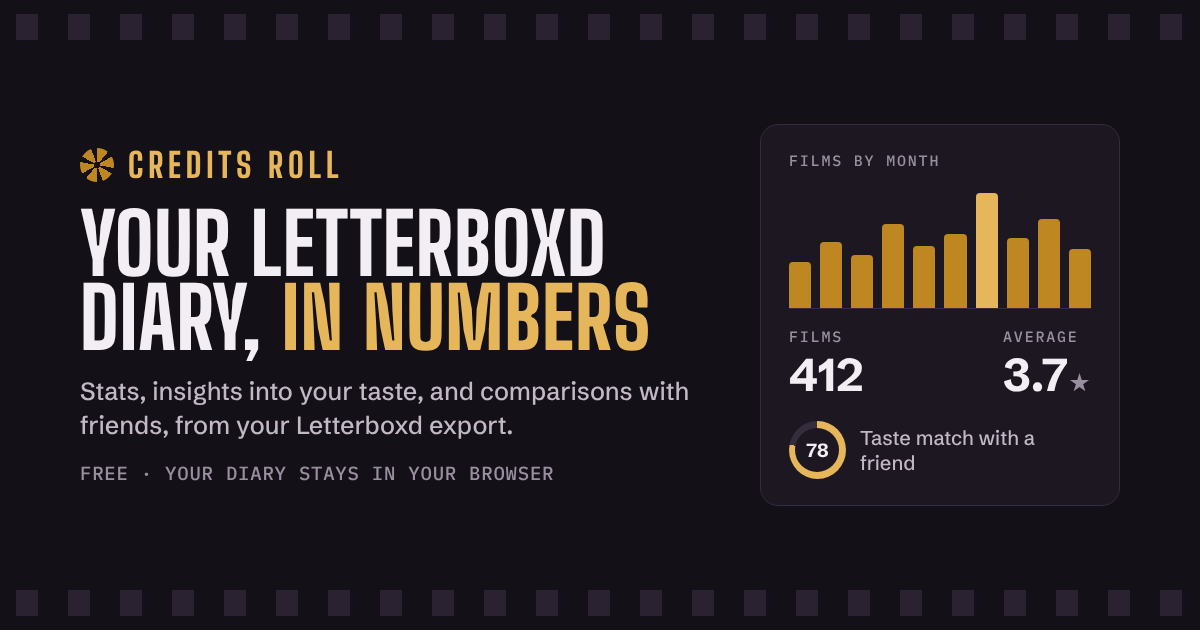
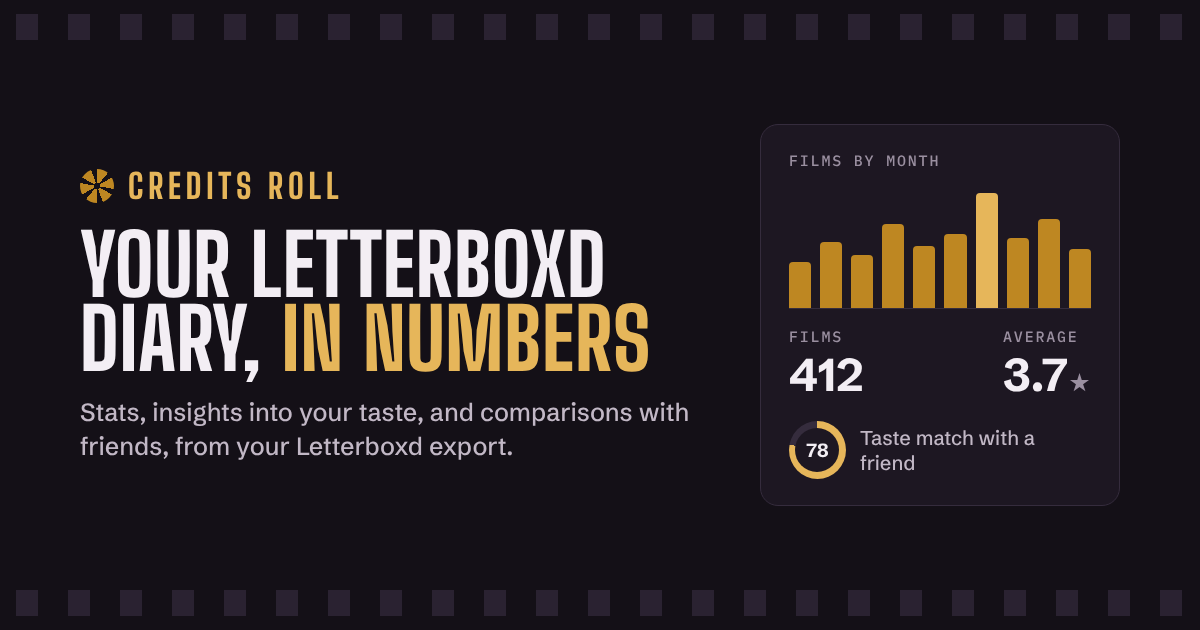
Link preview: no "free", and its details first on every page
When the site's link is shared, the preview line now reads "Stats, insights
and taste comparisons from your Letterboxd export." and the picture no
longer carries the "Free · your diary stays in your browser" line.
The preview's title, line and picture now come first on each page, before
anything else, since WhatsApp and similar apps read only the top of a page.

Claude-Session: https://claude.ai/code/session_01Y9mQHzhrSZmWWWZ7KyxasH

Changed region(s): [[0.0617, 0.2413, 0.5858, 0.7841]]

diff --git a/docs/mobile.html b/docs/mobile.html
@@ -2,7 +2,19 @@
 <html lang="en">
 <head>
 <meta charset="utf-8">
-<meta http-equiv="Content-Security-Policy" content="default-src 'none'; script-src 'self' 'sha256-AvJVfx2PmsGik4emJ4mkbu4bU2b6DR2iv7AkwsjQuR0=' 'sha256-elv+wPfA3yRbWyozTo9h+JYTHilloJthhEsFWyPJiPU=' 'sha256-lS2T9lrp5dL1riIF2QWIxm+KKYfO01n7E9hau3grw1Q=' 'sha256-EArm8ugYkw7cwtQuhTbeDQ7GJ97JIlgiKtjUPxK4kyU=' 'sha256-B82hY+3mhzgBokFCixF2XGrDhEXTsD3c0hlCUzaOySk=' 'sha256-C0hWWdsCi6D/yQNhk31M5G6/fT3KqDMe8xby6dcTLyo=' 'sha256-RM4R3JX0nvKK9bws33iWaJ/X5ShIsJ9dwnwZFM0sjHQ=' 'sha256-jpTMZLGyqdl74CSoMtqaF3XC+h0MSMqoSuIZukpu6Lw=' 'sha256-ek/1Q+1aX8JtDS0RVODtIO1oeclnVDJoDjeqbGddypw=' 'sha256-EIkU92DApQizQfyhiZygaktaJhdOkCvkn6yIkbXrkts=' 'sha256-yLxvS88QxMk+7orYRhhB8/nzKZWM/fc+nN7SRbmXC0c=' 'sha256-+3X8AR+i7xvxiItNVaCyUzAGQJMjHKXdRdU0cU5k9O0=' 'sha256-WSs/ZlL5rhLoDTpYa6Z4O/wsuMD9ujNi/inYlLeiYmU=' 'sha256-CS/CNUYhU5X82DY565caK8dukkFjcI1WBnguQweBE+Y=' 'sha256-yhU9/g0M0NP7cMaoxw6r2sMlu5ZyOzekIDHyQOOkDks=' 'sha256-fh+hLq8sE6ygcNtzjdgkIKi2wmtgA4SsJDSROakngOk=' 'sha256-XZlxlv7oSDKKMtW6ZdA0lfFKW9aUDraj5UkhfLu3jB0=' 'sha256-/7eXpUQp04bNorM1aVTppcjLISTsqmxIjoWBpJghW3w=' 'sha256-d2PjefTaq6v6TuUZ4PZG7e7yGS5Cv2vbg7UpUH7rNWI=' 'sha256-o4QEZlp9kiVs7ZtX31mU7F3Gwe047LiT3VXj+ehswkI=' 'sha256-v9OXAuLOdWac7j+zHySFGs8JbZDDGlk/FGnGVxNMntg=' 'sha256-7FkfcNiAckgNAbUhmykb/okNmTuEwu2xmJRLONHj1Ys=' 'sha256-dqoYB0Iv/+c1s+zcSr2klUoXHwdrPM+V+jP5RYzsrvg=' 'sha256-md01RUc1QG0T+KiCL13k5JEDhd0qbVZN+LDFQPjkhv8=' 'sha256-JoAQ7l5vEqm3+fOzJ7xFDaky3iVAsQz98/U4gBnx1NA=' 'sha256-5J5oY9wGmmzsu//92LZJM821ufPUNN3OwZo/yZ0X0yU=' 'sha256-VRGtNK6KEQip9qg6Unj0RgAW0g3hvSX5eQu57VcH4eI='; style-src 'self' 'unsafe-inline' https://fonts.googleapis.com; font-src https://fonts.gstatic.com; img-src 'self' data: blob: https://image.tmdb.org; connect-src 'self' https://api.themoviedb.org https://www.omdbapi.com https://api.apify.com https://api.github.com; manifest-src 'self'; worker-src 'self'; base-uri 'none'; form-action 'none'; object-src 'none'">
+<meta name="description" content="Stats, insights and taste comparisons from your Letterboxd export.">
+<meta property="og:type" content="website">
+<meta property="og:site_name" content="Credits Roll">
+<meta property="og:title" content="Credits Roll: your Letterboxd diary, in numbers">
+<meta property="og:description" content="Stats, insights and taste comparisons from your Letterboxd export.">
+<meta property="og:url" content="https://sjnift.github.io/bogie1946/">
+<meta property="og:image" content="https://sjnift.github.io/bogie1946/og.png">
+<meta property="og:image:type" content="image/png">
+<meta property="og:image:width" content="1200">
+<meta property="og:image:height" content="630">
+<meta property="og:image:alt" content="Credits Roll: your Letterboxd diary, in numbers">
+<meta name="twitter:card" content="summary_large_image">
+<meta http-equiv="Content-Security-Policy" content="default-src 'none'; script-src 'self' 'sha256-AvJVfx2PmsGik4emJ4mkbu4bU2b6DR2iv7AkwsjQuR0=' 'sha256-elv+wPfA3yRbWyozTo9h+JYTHilloJthhEsFWyPJiPU=' 'sha256-lS2T9lrp5dL1riIF2QWIxm+KKYfO01n7E9hau3grw1Q=' 'sha256-EArm8ugYkw7cwtQuhTbeDQ7GJ97JIlgiKtjUPxK4kyU=' 'sha256-B82hY+3mhzgBokFCixF2XGrDhEXTsD3c0hlCUzaOySk=' 'sha256-C0hWWdsCi6D/yQNhk31M5G6/fT3KqDMe8xby6dcTLyo=' 'sha256-RM4R3JX0nvKK9bws33iWaJ/X5ShIsJ9dwnwZFM0sjHQ=' 'sha256-jpTMZLGyqdl74CSoMtqaF3XC+h0MSMqoSuIZukpu6Lw=' 'sha256-ek/1Q+1aX8JtDS0RVODtIO1oeclnVDJoDjeqbGddypw=' 'sha256-EIkU92DApQizQfyhiZygaktaJhdOkCvkn6yIkbXrkts=' 'sha256-yLxvS88QxMk+7orYRhhB8/nzKZWM/fc+nN7SRbmXC0c=' 'sha256-+3X8AR+i7xvxiItNVaCyUzAGQJMjHKXdRdU0cU5k9O0=' 'sha256-WSs/ZlL5rhLoDTpYa6Z4O/wsuMD9ujNi/inYlLeiYmU=' 'sha256-CS/CNUYhU5X82DY565caK8dukkFjcI1WBnguQweBE+Y=' 'sha256-yhU9/g0M0NP7cMaoxw6r2sMlu5ZyOzekIDHyQOOkDks=' 'sha256-fh+hLq8sE6ygcNtzjdgkIKi2wmtgA4SsJDSROakngOk=' 'sha256-XZlxlv7oSDKKMtW6ZdA0lfFKW9aUDraj5UkhfLu3jB0=' 'sha256-dHJcx+QE1yFjy4Q3RpWQWJzOp47sR5Mp/7rAXZV/t+w=' 'sha256-4nL/HYm6j2VYJ4KKgxjdeVaP5he0vLizNIsTuj987nI=' 'sha256-o4QEZlp9kiVs7ZtX31mU7F3Gwe047LiT3VXj+ehswkI=' 'sha256-v9OXAuLOdWac7j+zHySFGs8JbZDDGlk/FGnGVxNMntg=' 'sha256-7FkfcNiAckgNAbUhmykb/okNmTuEwu2xmJRLONHj1Ys=' 'sha256-dqoYB0Iv/+c1s+zcSr2klUoXHwdrPM+V+jP5RYzsrvg=' 'sha256-md01RUc1QG0T+KiCL13k5JEDhd0qbVZN+LDFQPjkhv8=' 'sha256-JoAQ7l5vEqm3+fOzJ7xFDaky3iVAsQz98/U4gBnx1NA=' 'sha256-5J5oY9wGmmzsu//92LZJM821ufPUNN3OwZo/yZ0X0yU=' 'sha256-VRGtNK6KEQip9qg6Unj0RgAW0g3hvSX5eQu57VcH4eI='; style-src 'self' 'unsafe-inline' https://fonts.googleapis.com; font-src https://fonts.gstatic.com; img-src 'self' data: blob: https://image.tmdb.org; connect-src 'self' https://api.themoviedb.org https://www.omdbapi.com https://api.apify.com https://api.github.com; manifest-src 'self'; worker-src 'self'; base-uri 'none'; form-action 'none'; object-src 'none'">
 <meta name="referrer" content="no-referrer">
 <style id="unframed">html{display:none}</style>
 <script>if (self === top) document.getElementById("unframed").remove(); else top.location = self.location.href;</script>
@@ -14,17 +26,6 @@
 <meta name="apple-mobile-web-app-title" content="Credits Roll">
 <link rel="icon" type="image/png" sizes="192x192" href="icons/icon-192.png">
 <link rel="apple-touch-icon" href="icons/apple-touch-icon.png">
-<meta name="description" content="Free stats, insights and taste comparisons from your Letterboxd export. Your diary stays in your browser.">
-<meta property="og:type" content="website">
-<meta property="og:site_name" content="Credits Roll">
-<meta property="og:title" content="Credits Roll: your Letterboxd diary, in numbers">
-<meta property="og:description" content="Free stats, insights and taste comparisons from your Letterboxd export. Your diary stays in your browser.">
-<meta property="og:url" content="https://sjnift.github.io/bogie1946/">
-<meta property="og:image" content="https://sjnift.github.io/bogie1946/og.png">
-<meta property="og:image:width" content="1200">
-<meta property="og:image:height" content="630">
-<meta property="og:image:alt" content="Credits Roll: your Letterboxd diary, in numbers">
-<meta name="twitter:card" content="summary_large_image">
 <meta name="viewport" content="width=device-width,initial-scale=1,viewport-fit=cover">
 <style>:root{padding-top:env(safe-area-inset-top,0px);padding-bottom:env(safe-area-inset-bottom,0px)}body{margin:0}img{max-width:100%}[hidden]{display:none!important}</style>
 <title>Credits Roll</title>
@@ -5689,7 +5690,7 @@ function welcomeScreen() {
       <button class="btn green block" type="button" data-act="import">${ICON.upload}Import export</button>
       ${state.importError ? `<p class="status err" role="alert">${esc(state.importError)}</p>` : ""}</div><div data-sitebox="open">${siteBox("open")}</div>
     ${IN_VIEWER ? `<p class="note">This Claude version keeps its own copy of an import. Your saved diary is on the website, <a href="https://sjnift.github.io/bogie1946/" target="_blank" rel="noopener">sjnift.github.io/bogie1946</a>.</p>` : ""}
-    <div class="foot"><p class="stamp">Updated 25 Oct 2026, 05:48 UTC</p></div>`;
+    <div class="foot"><p class="stamp">Updated 25 Oct 2026, 06:35 UTC</p></div>`;
 }
 // The header frosts over once the screen scrolls under it.
 function updateTop() { $("#top").classList.toggle("solid", window.scrollY > 12); }
@@ -6055,7 +6056,7 @@ function dataScreen() {
       Inside the Claude app, details come from Claude's knowledge of each film instead, so check anything surprising.` : ""}</p>
       <p>Your diary stays in this browser: only film titles and years go to TMDB, to find cast and crew.</p>
       <p>On a computer? <a href="desktop.html">Open the desktop version</a>. It uses the same import.</p>
-      <p class="stamp">Updated 25 Oct 2026, 05:48 UTC</p></div>`;
+      <p class="stamp">Updated 25 Oct 2026, 06:35 UTC</p></div>`;
 }
 
 /* ---------- pushed screens ---------- */

diff --git a/docs/desktop.html b/docs/desktop.html
@@ -2,6 +2,18 @@
 <html lang="en">
 <head>
 <meta charset="utf-8">
+<meta name="description" content="Stats, insights and taste comparisons from your Letterboxd export.">
+<meta property="og:type" content="website">
+<meta property="og:site_name" content="Credits Roll">
+<meta property="og:title" content="Credits Roll: your Letterboxd diary, in numbers">
+<meta property="og:description" content="Stats, insights and taste comparisons from your Letterboxd export.">
+<meta property="og:url" content="https://sjnift.github.io/bogie1946/">
+<meta property="og:image" content="https://sjnift.github.io/bogie1946/og.png">
+<meta property="og:image:type" content="image/png">
+<meta property="og:image:width" content="1200">
+<meta property="og:image:height" content="630">
+<meta property="og:image:alt" content="Credits Roll: your Letterboxd diary, in numbers">
+<meta name="twitter:card" content="summary_large_image">
 <meta http-equiv="Content-Security-Policy" content="default-src 'none'; script-src 'self' 'sha256-AvJVfx2PmsGik4emJ4mkbu4bU2b6DR2iv7AkwsjQuR0=' 'sha256-elv+wPfA3yRbWyozTo9h+JYTHilloJthhEsFWyPJiPU=' 'sha256-lS2T9lrp5dL1riIF2QWIxm+KKYfO01n7E9hau3grw1Q=' 'sha256-EArm8ugYkw7cwtQuhTbeDQ7GJ97JIlgiKtjUPxK4kyU=' 'sha256-B82hY+3mhzgBokFCixF2XGrDhEXTsD3c0hlCUzaOySk=' 'sha256-C0hWWdsCi6D/yQNhk31M5G6/fT3KqDMe8xby6dcTLyo=' 'sha256-RM4R3JX0nvKK9bws33iWaJ/X5ShIsJ9dwnwZFM0sjHQ=' 'sha256-jpTMZLGyqdl74CSoMtqaF3XC+h0MSMqoSuIZukpu6Lw=' 'sha256-ek/1Q+1aX8JtDS0RVODtIO1oeclnVDJoDjeqbGddypw=' 'sha256-EIkU92DApQizQfyhiZygaktaJhdOkCvkn6yIkbXrkts=' 'sha256-yLxvS88QxMk+7orYRhhB8/nzKZWM/fc+nN7SRbmXC0c=' 'sha256-+3X8AR+i7xvxiItNVaCyUzAGQJMjHKXdRdU0cU5k9O0=' 'sha256-WSs/ZlL5rhLoDTpYa6Z4O/wsuMD9ujNi/inYlLeiYmU=' 'sha256-CS/CNUYhU5X82DY565caK8dukkFjcI1WBnguQweBE+Y=' 'sha256-yhU9/g0M0NP7cMaoxw6r2sMlu5ZyOzekIDHyQOOkDks=' 'sha256-fh+hLq8sE6ygcNtzjdgkIKi2wmtgA4SsJDSROakngOk=' 'sha256-XZlxlv7oSDKKMtW6ZdA0lfFKW9aUDraj5UkhfLu3jB0=' 'sha256-59jZl8a89ctaclxiGx/dPoNRRSqOXwTSy9FqrSKNRNQ=' 'sha256-YQSXdNGcfM4JHZyxEHbF4eBJoxhpKAkJ+RqIlgRd+nA=' 'sha256-ygfv4zGRdTv8woKqWXHQD+qms0k6FLSyO6stX3ZW1QU=' 'sha256-82Dbk915j0jg0agCY040+JjHoobv0D1EpTdPYN8yPEQ=' 'sha256-gfrIsWsUDUkYXanQ4YooxAjVxH1Gmo802l7xaMWPyw8=' 'sha256-JHpQG/DS9k9LKjdHAIr6fnxqPvTq8u2042vi7oaqdN8=' 'sha256-Q7mo56IdO2In2arGSrHB3bRpGgEDNLkbeFtP0hYhdYI=' 'sha256-TSKh5lFwN2ttZLfa4bjpyGIABBsgFiDJPGZb//7ihZs=' 'sha256-U95OXvwJdGGyXdWpPOeXLlqPAcouX0n+BnGWiw+O+4I=' 'sha256-VRGtNK6KEQip9qg6Unj0RgAW0g3hvSX5eQu57VcH4eI='; style-src 'self' 'unsafe-inline' https://fonts.googleapis.com; font-src https://fonts.gstatic.com; img-src 'self' data: blob: https://image.tmdb.org; connect-src 'self' https://api.themoviedb.org https://www.omdbapi.com https://api.apify.com https://api.github.com; manifest-src 'self'; worker-src 'self'; base-uri 'none'; form-action 'none'; object-src 'none'">
 <meta name="referrer" content="no-referrer">
 <style id="unframed">html{display:none}</style>
@@ -14,17 +26,6 @@
 <meta name="apple-mobile-web-app-title" content="Credits Roll">
 <link rel="icon" type="image/png" sizes="192x192" href="icons/icon-192.png">
 <link rel="apple-touch-icon" href="icons/apple-touch-icon.png">
-<meta name="description" content="Free stats, insights and taste comparisons from your Letterboxd export. Your diary stays in your browser.">
-<meta property="og:type" content="website">
-<meta property="og:site_name" content="Credits Roll">
-<meta property="og:title" content="Credits Roll: your Letterboxd diary, in numbers">
-<meta property="og:description" content="Free stats, insights and taste comparisons from your Letterboxd export. Your diary stays in your browser.">
-<meta property="og:url" content="https://sjnift.github.io/bogie1946/">
-<meta property="og:image" content="https://sjnift.github.io/bogie1946/og.png">
-<meta property="og:image:width" content="1200">
-<meta property="og:image:height" content="630">
-<meta property="og:image:alt" content="Credits Roll: your Letterboxd diary, in numbers">
-<meta name="twitter:card" content="summary_large_image">
 <meta name="viewport" content="width=device-width,initial-scale=1,viewport-fit=cover">
 <style>:root{padding-top:env(safe-area-inset-top,0px);padding-bottom:env(safe-area-inset-bottom,0px)}body{margin:0}img{max-width:100%}[hidden]{display:none!important}</style>
 <title>Credits Roll</title>
@@ -890,12 +891,12 @@ body.empty #settings, body.empty .foot-settings { display: none !important; }
           Inside the Claude app, details come from Claude's knowledge of each film instead, so check anything surprising.</span></p>
         <p>Your diary stays in your browser: only film titles and years go to TMDB, to find cast and crew.</p>
         <p>On a phone? <a href="mobile.html">Open the phone version</a>. It uses the same import.</p>
-        <p>Updated 25 Oct 2026, 05:48 UTC</p>
+        <p>Updated 25 Oct 2026, 06:35 UTC</p>
       </div>
     </section>
   </main>
   <footer>
-    <p>Updated 25 Oct 2026, 05:48 UTC<span class="foot-settings"> · <button class="linkish" type="button" data-goto="settings">Settings</button></span></p>
+    <p>Updated 25 Oct 2026, 06:35 UTC<span class="foot-settings"> · <button class="linkish" type="button" data-goto="settings">Settings</button></span></p>
   </footer>
 </div>
 

diff --git a/docs/index.html b/docs/index.html
@@ -2,23 +2,24 @@
 <html lang="en">
 <head>
 <meta charset="utf-8">
+<meta name="description" content="Stats, insights and taste comparisons from your Letterboxd export.">
+<meta property="og:type" content="website">
+<meta property="og:site_name" content="Credits Roll">
+<meta property="og:title" content="Credits Roll: your Letterboxd diary, in numbers">
+<meta property="og:description" content="Stats, insights and taste comparisons from your Letterboxd export.">
+<meta property="og:url" content="https://sjnift.github.io/bogie1946/">
+<meta property="og:image" content="https://sjnift.github.io/bogie1946/og.png">
+<meta property="og:image:type" content="image/png">
+<meta property="og:image:width" content="1200">
+<meta property="og:image:height" content="630">
+<meta property="og:image:alt" content="Credits Roll: your Letterboxd diary, in numbers">
+<meta name="twitter:card" content="summary_large_image">
 <meta http-equiv="Content-Security-Policy" content="default-src 'none'; script-src 'self' 'sha256-AvJVfx2PmsGik4emJ4mkbu4bU2b6DR2iv7AkwsjQuR0=' 'sha256-ozeqYQvUNaV+4pGs6RYC4JnhYUWTJYMXm0rzoFMlPMM='; style-src 'self' 'unsafe-inline' https://fonts.googleapis.com; font-src https://fonts.gstatic.com; img-src 'self' data: blob: https://image.tmdb.org; connect-src 'self' https://api.themoviedb.org https://www.omdbapi.com https://api.apify.com https://api.github.com; manifest-src 'self'; worker-src 'self'; base-uri 'none'; form-action 'none'; object-src 'none'">
 <meta name="referrer" content="no-referrer">
 <style id="unframed">html{display:none}</style>
 <script>if (self === top) document.getElementById("unframed").remove(); else top.location = self.location.href;</script>
 <meta name="viewport" content="width=device-width,initial-scale=1">
 <title>Credits Roll</title>
-<meta name="description" content="Free stats, insights and taste comparisons from your Letterboxd export. Your diary stays in your browser.">
-<meta property="og:type" content="website">
-<meta property="og:site_name" content="Credits Roll">
-<meta property="og:title" content="Credits Roll: your Letterboxd diary, in numbers">
-<meta property="og:description" content="Free stats, insights and taste comparisons from your Letterboxd export. Your diary stays in your browser.">
-<meta property="og:url" content="https://sjnift.github.io/bogie1946/">
-<meta property="og:image" content="https://sjnift.github.io/bogie1946/og.png">
-<meta property="og:image:width" content="1200">
-<meta property="og:image:height" content="630">
-<meta property="og:image:alt" content="Credits Roll: your Letterboxd diary, in numbers">
-<meta name="twitter:card" content="summary_large_image">
 <link rel="manifest" href="manifest.webmanifest">
 <meta name="theme-color" content="#1B2128">
 <link rel="apple-touch-icon" href="icons/apple-touch-icon.png">

diff --git a/tools/og.html b/tools/og.html
@@ -12,7 +12,6 @@
   h1 { font-family: "Big Shoulders Display"; font-weight: 800; text-transform: uppercase; font-size: 84px; line-height: .88; margin: 22px 0 20px; letter-spacing: .01em; }
   h1 span { color: #E6B65A; }
   p { margin: 0; font-size: 25px; line-height: 1.35; color: #C2B8C6; }
-  .free { margin-top: 18px; font-family: "IBM Plex Mono"; font-size: 19px; color: #9A8FA0; letter-spacing: .04em; }
   .card { background: #1D1722; border: 1px solid #352C3D; border-radius: 18px; padding: 26px 28px; display: grid; gap: 18px; }
   .k { font-family: "IBM Plex Mono"; font-size: 15px; letter-spacing: .12em; text-transform: uppercase; color: #9A8FA0; }
   .bars { display: flex; align-items: flex-end; gap: 9px; height: 120px; border-bottom: 1px solid #352C3D; }
@@ -32,7 +31,6 @@
       <div class="mark"><span class="reel"></span>CREDITS ROLL</div>
       <h1>Your Letterboxd diary, <span>in numbers</span></h1>
       <p>Stats, insights into your taste, and comparisons with friends, from your Letterboxd export.</p>
-      <div class="free">FREE · YOUR DIARY STAYS IN YOUR BROWSER</div>
     </div>
     <div class="card">
       <div class="k">Films by month</div>

diff --git a/CLAUDE.md b/CLAUDE.md
@@ -87,7 +87,7 @@ Where it lives:
     no taglines ("free", "nothing to sign up for": removed at the owner's request, 25 Oct 2026); the
     owner's password box is folded into "Are you @user? Open your diary" below it (`owner-open`), and owner-only things
     (the daily feed's GitHub step, "Put your diary on this site" without the GitHub key) stay hidden or folded for
-    others. Shared links show a preview (title, line, `og.png`).
+    others. Shared links show a preview (title, line, `og.png`), with no "free" or privacy taglines either.
   - **Sharing with friends** (asked Oct 2026): pictures as a feed post (1080×1350) or a story (1080×1920) of a year,
     of all time and of a taste match with a friend; the year (or all time) as a tap-through story; and, if the owner
     turns it on, visitors compare with the owner in one tap.
@@ -175,7 +175,9 @@ The owner asked for this to be checked every time. A film, diary entry, person o
   story: `D.story`, `storyBodyHtml`, `fillStory`, `storyFindings`).
 - `src/site/`: `manifest.webmanifest`, `sw.js` (network-first service worker; skips TMDB, OMDb, Apify),
   icons (drawn by `tools/make_icons.py`), `og.png` (the link preview, 1200×630, drawn from `tools/og.html` by
-  `node tools/make_og.mjs`; `build.sh` puts its tags, `PREVIEW`, on all three pages).
+  `node tools/make_og.mjs`; `build.sh` puts its tags, `PREVIEW`, first in the head of all three pages, before the
+  security policy (`tools/csp.mjs` goes in after `twitter:card`), because link-preview readers like WhatsApp's look
+  only at the top of a page; keep the picture small (about 65 KB; WhatsApp skips ones over about 300 KB)).
 - `scripts/feed.mjs` and `.github/workflows/`: the daily feed and the checks (below).
 
 ### Data
